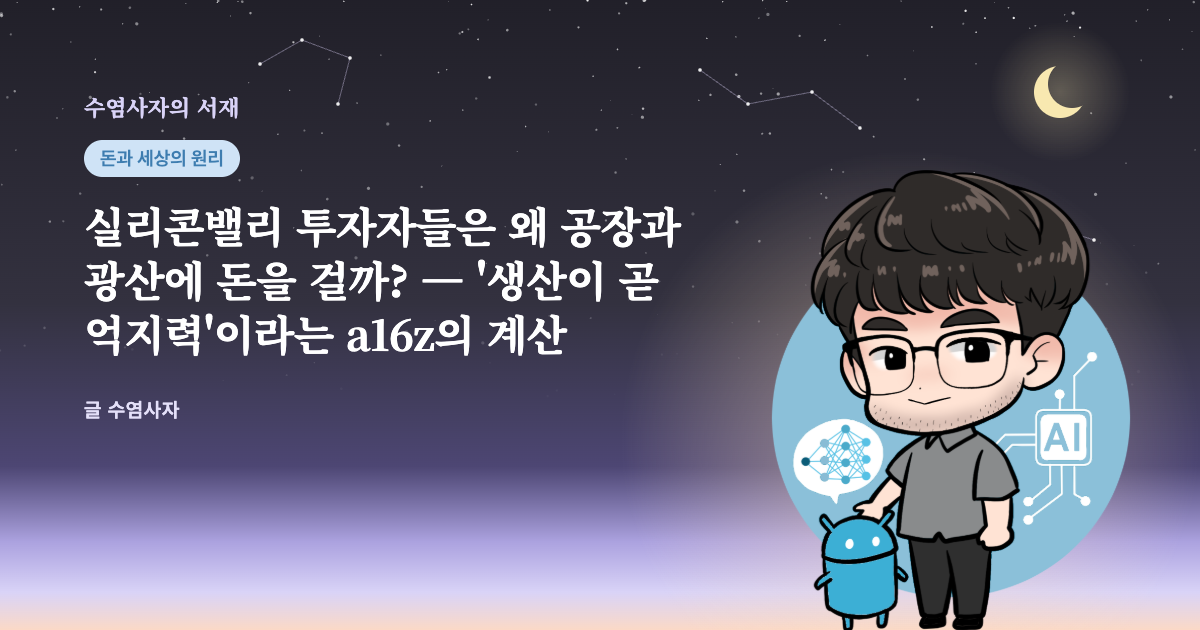
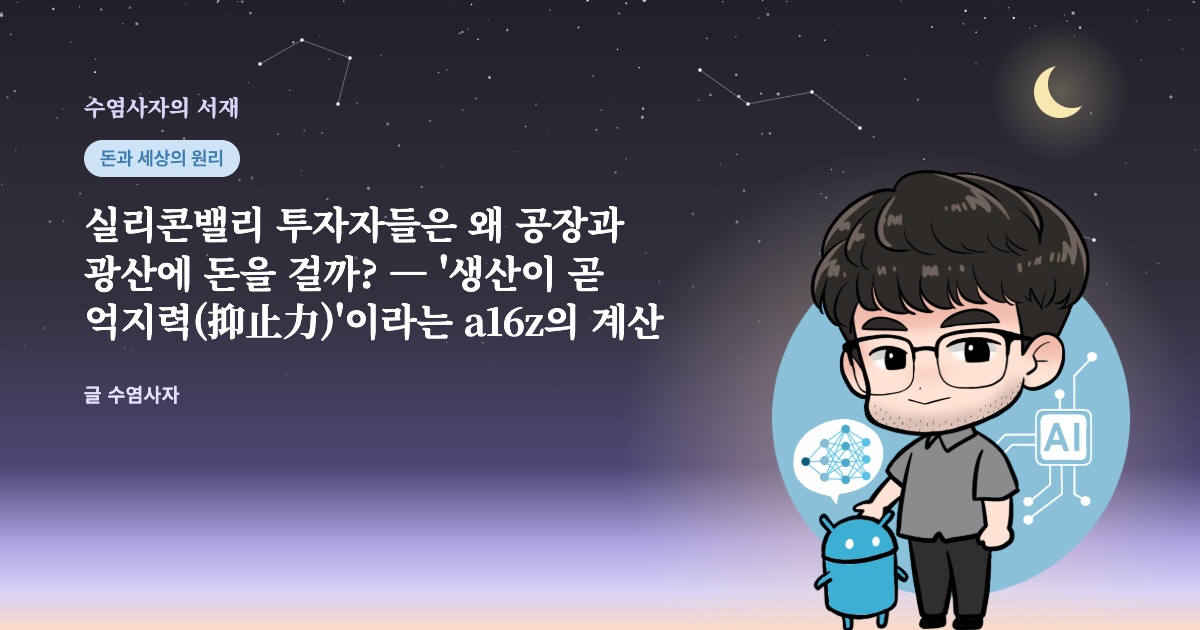
posts: a16z·스토아·튜링 사용자 편집 반영, 끊긴 참고문헌 정리
Claude-Session: https://claude.ai/code/session_01J36DQQsi1iZDy94NMGj8jH

Changed region(s): [[0.0617, 0.3317, 0.5858, 0.573], [0.0617, 0.6032, 0.1542, 0.6635]]

diff --git a/posts/a16z-production-deterrence/post.html b/posts/a16z-production-deterrence/post.html
@@ -60,17 +60,17 @@
 </head>
 <body>
 <article>
-<h1>실리콘밸리 투자자들은 왜 공장과 광산에 돈을 걸까? — '생산이 곧 억지력'이라는 a16z의 계산</h1>
+<h1>실리콘밸리 투자자들은 왜 공장과 광산에 돈을 걸까? — '생산이 곧 억지력(抑止力)'이라는 a16z의 계산</h1>
 <div class="meta">2026-11-09 · 약 12분 분량 · 글 수염사자</div>
 
 <p class="lead-quote">"앱에 투자하던 사람들이 왜 갑자기 구리 광산을 사요?"</p>
 <p>요즘 미국 기술 투자 소식을 보면 낯선 단어가 자주 나옵니다. 벤처 투자를 받은 스타트업이 유타주의 멈춘 구리 광산을 사들여 다시 돌립니다<sup class="fn"><a id="cite-1" href="#ref-1">[1]</a></sup>. 창업 몇 년 된 회사가 미 해군과 극초음속 미사일 생산 계약을 맺습니다<sup class="fn"><a id="cite-2" href="#ref-2">[2]</a></sup>. 미국 최대 은행은 10년간 1조 5천억 달러를 '안보와 회복력' 산업에 대겠다고 발표합니다<sup class="fn"><a id="cite-3" href="#ref-3">[3]</a></sup>. 소프트웨어와 플랫폼의 언어로 움직이던 실리콘밸리가 흙과 쇳덩이 이야기를 하고 있습니다.</p>
 <p><strong>바뀐 것은 투자자의 애국심이 아니라 계산입니다.</strong></p>
-<p>이 글은 이 흐름이 유행인지, 정말 구조가 바뀐 것인지 궁금한 분들을 위해 씁니다. 실마리는 벤처 투자사 앤드리슨 호로위츠(a16z)가 2026년 10월 29일 공개한 대담과 기업 명단입니다<sup class="fn"><a id="cite-4" href="#ref-4">[4]</a></sup><sup class="fn"><a id="cite-5" href="#ref-5">[5]</a></sup>. 이 회사의 국방·제조 담당 팀은 해마다 주목할 기업 50곳을 꼽는데, 올해 명단의 제목이 <strong>'생산이 곧 억지력이다(Production is Deterrence)'</strong>였습니다. 결론부터 말씀드리면, 그들의 논리에는 단단한 부분과 아직 증명되지 않은 부분이 섞여 있습니다. 이 글은 둘을 나눠 읽어 봅니다.</p>
-<p>명단에 오른 회사 상당수는 a16z가 실제로 투자한 곳입니다. 대담자들은 자기 포트폴리오를 설명하는 사람들이고, 그 점을 감안하고 읽어야 해요.</p>
+<p>이 글은 이 흐름이 유행인지, 정말 구조가 바뀐 것인지 궁금한 분들을 위해 씁니다. 실마리는 벤처 투자사 앤드리슨 호로위츠(a16z)가 2026년 10월 29일 공개한 대담과 기업 명단입니다<sup class="fn"><a id="cite-4" href="#ref-4">[4]</a></sup><sup class="fn"><a id="cite-5" href="#ref-5">[5]</a></sup>. 이 회사의 국방·제조 담당 팀은 해마다 주목할 기업 50곳을 꼽는데, 올해 명단의 제목이 <strong>'생산이 곧 억지력이다(Production is Deterrence)'</strong>였습니다. </p>
+<p>(참고) 명단에 오른 회사 상당수는 a16z가 실제로 투자한 곳입니다. 대담자들은 자기 포트폴리오를 설명하는 사람들임은 감안해야 합니다.</p>
 
 <h2>'생산이 곧 억지력'이라는 말의 뜻</h2>
-<p>억지력(deterrence)은 상대가 공격할 엄두를 내지 못하게 만드는 힘입니다. 흔히 억지력은 첨단 무기의 성능으로 잰다고 생각합니다. 그런데 a16z 명단은 질문을 바꿉니다. 얼마나 좋은 무기를 갖고 있느냐가 아니라, 압박 속에서도 계속 만들어 낼 수 있느냐는 것입니다.</p>
+<p>억지력(deterrence)은 상대가 공격할 엄두를 내지 못하게 만드는 힘입니다. 흔히 억지력은 첨단 무기의 성능으로 잰다고 생각합니다. 그런데 a16z가 묻는 것은 얼마나 좋은 무기를 갖고 있느냐가 아니라, 압박 속에서도 계속 만들어 낼 수 있느냐입니다.</p>
 <blockquote class="quote">
   <p>힘은 압박 속에서도 생산을 이어 가는 능력으로 측정된다.</p>
   <cite>— a16z American Dynamism 팀, 「The American Dynamism 50 2026」(번역)<sup class="fn"><a id="cite-5b" href="#ref-5">[5]</a></sup></cite>
@@ -113,10 +113,10 @@
 </svg>
 <figcaption>a16z는 올해 명단을 원료, 공장, 완성 체계의 세 층으로 나눴고, 칸 아래 회사들은 각 층에 실린 기업 가운데 대담에서 언급된 곳입니다.</figcaption>
 </figure>
-<p>이 구분이 왜 중요한지는 지난 수십 년의 투자 습관을 보면 보입니다. 한 대담자는 자신을 포함해 이 분야 투자자 대부분이 오른쪽 칸, 곧 완성 체계 기업에만 눈을 뒀다고 털어놓습니다. 미사일과 드론은 눈에 띄고 이야기가 됩니다. 볼 베어링과 회로기판은 그렇지 않습니다. 그런데 미사일을 1년에 수천 기 만들려면 결국 그 왼쪽 두 칸이 받쳐 줘야 합니다.</p>
+<p>이 구분이 왜 중요한지는 지난 수십 년의 투자 습관을 보면 보입니다. 한 대담자는 자신을 포함해 이 분야 투자자 대부분이 오른쪽 칸, 곧 완성 체계 기업에만 눈을 뒀다고 털어놓습니다. 미사일과 드론은 눈에 띄고 이야기가 됩니다. 하지만, 볼 베어링과 회로기판은 그렇지 않지요. 결국, 미사일을 1년에 수천 기 만들려면 원료와 공장이 받쳐 줘야 합니다.</p>
 
 <h2>옛 방식과 무엇이 다른가 — 주문을 기다리지 않는다</h2>
-<p>미국 방위산업에는 오래된 구조가 있습니다. 정부가 필요한 것을 정해 발주하면, 정부와 직접 계약하는 대형 방산업체, 이른바 <strong>프라임(prime contractor)</strong>이 그 사양대로 개발합니다. 육군 복무 경험이 있다는 대담자는 이 구조의 약점을 이렇게 설명합니다. 무기를 쓰는 병사, 무기를 사는 조달 조직, 예산을 정하는 의회가 서로 다른 사람들입니다. 요구가 정해지고 개발이 끝날 즈음이면 기술은 이미 10년 전 것이 되어 있습니다<sup class="fn"><a id="cite-4c" href="#ref-4">[4]</a></sup>.</p>
+<p>미국 방위산업에는 오래된 구조가 있습니다. 정부가 필요한 것을 정해 발주하면, 정부와 직접 계약하는 대형 방산업체, 이른바 <strong>프라임(prime contractor)</strong>이 그 사양대로 개발합니다. 대담자는 이 구조의 약점을 이렇게 설명합니다. 무기를 쓰는 병사, 무기를 사는 조달 조직, 예산을 정하는 의회가 서로 다른 사람들입니다. 요구가 정해지고 개발이 끝날 즈음이면 기술은 이미 10년 전 것이 되어 있습니다<sup class="fn"><a id="cite-4c" href="#ref-4">[4]</a></sup>.</p>
 <p>새로 등장한 방산 스타트업들은 순서를 뒤집습니다. 군에 무엇이 필요할지 먼저 읽고, 민간 투자금으로 먼저 만든 다음, 완성품을 들고 정부를 찾아갑니다.</p>
 <figure>
 <svg xmlns="http://www.w3.org/2000/svg" viewBox="0 0 680 400" width="100%" role="img" aria-labelledby="t-2 d-2" font-family="'Pretendard','Noto Sans KR','Noto Sans CJK KR','Apple SD Gothic Neo',sans-serif">
@@ -146,12 +146,11 @@
 </svg>
 <figcaption>옛 방식에서는 정부가 사양을 정하고 돈을 대며 위험을 졌지만, 새 방식에서는 스타트업이 민간 투자금으로 먼저 만들고 그 위험을 창업자와 투자자가 집니다.</figcaption>
 </figure>
-<p>맞춤 양복과 기성복에 빗대면 쉽습니다. 옛 방식은 손님이 치수를 재서 주문해야 재단을 시작하는 양복점입니다. 새 방식은 손님이 무엇을 입을지 미리 짐작해 옷을 지어 걸어 두는 가게입니다. 짐작이 맞으면 손님은 기다리지 않고 바로 입습니다. 짐작이 틀리면 재고는 가게 몫입니다.</p>
 <p>대담에서 든 사례가 극초음속 미사일 회사 카스텔리온(Castelion)입니다. 이 회사는 공중 발사형 미사일 '블랙비어드'를 개발해 2026년 9월 미 해군과 2억 달러 규모의 생산 계약을 맺었는데, 보도에 따르면 개발 자금은 민간 투자에서 나왔습니다<sup class="fn"><a id="cite-2b" href="#ref-2">[2]</a></sup>. 대담자는 지난 3년간 이 회사를 받친 것이 정부가 아니라 벤처 자본이었고, 창업자들이 위험을 먼저 졌다고 강조합니다<sup class="fn"><a id="cite-4d" href="#ref-4">[4]</a></sup>.</p>
-<p>방산에는 오래된 별명이 하나 있습니다. 시제품까지는 만들었는데 정부의 본격 양산 계약이 오기 전에 돈이 바닥나 쓰러지는 구간, <strong>'죽음의 계곡(valley of death)'</strong>입니다. 새 방식은 이 계곡을 민간 자본으로 건너겠다는 시도입니다.</p>
+<p>방산에는 오래된 별명이 하나 있습니다. 시제품까지는 만들었는데 정부의 본격 양산 계약이 오기 전에 돈이 바닥나 쓰러지는 구간, <strong>'죽음의 계곡(valley of death)'</strong>입니다. 새 방식은 이 계곡을 민간 자본으로 건너 보겠다는 시도입니다.</p>
 
 <h2>돈은 정말 몰리고 있나</h2>
-<p>대담자들은 2026년 상반기에만 방산 분야에 들어간 위험 자본이 작년 한 해 전체보다 많았다고 말합니다<sup class="fn"><a id="cite-4e" href="#ref-4">[4]</a></sup>. 숫자로 확인해 보면 방향은 맞습니다. 그런데 크기는 누가 세느냐에 따라 크게 달라집니다.</p>
+<p>대담자들은 2026년 상반기에만 방산 분야에 들어간 위험 자본이 작년 한 해 전체보다 많았다고 말합니다<sup class="fn"><a id="cite-4e" href="#ref-4">[4]</a></sup>. 이 부분은 숫자가 맞긴 했지만, 집계에 따라 약간 차이는 있었습니다.</p>
 <p>피치북(PitchBook) 집계로 2025년 방산 스타트업 투자액은 491억 달러로, 2024년 272억 달러의 1.8배였습니다<sup class="fn"><a id="cite-6" href="#ref-6">[6]</a></sup>. 크런치베이스(Crunchbase) 집계를 인용한 보도는 2025년 한 해 96억 달러, 2026년 6월 중순까지 이미 146억 달러였다고 전합니다<sup class="fn"><a id="cite-7" href="#ref-7">[7]</a></sup>. 크런치베이스 기준이라면 대담자의 말대로 반년이 안 돼 작년을 넘어선 셈입니다.</p>
 <figure>
 <svg xmlns="http://www.w3.org/2000/svg" viewBox="0 0 680 266" width="100%" role="img" aria-labelledby="t-4 d-4" font-family="'Pretendard','Noto Sans KR','Noto Sans CJK KR','Apple SD Gothic Neo',sans-serif">
@@ -178,15 +177,15 @@
 <text x="32" y="248" font-size="12" fill="#6E6B7B">자료: Defense News(2026.1)[6]·Washington Times(2026.6)[7]으로 재구성</text>
 </svg>
 
-<figcaption>같은 2025년 방산 스타트업 투자액이 피치북은 491억 달러, CB인사이츠는 179억 달러, 크런치베이스는 96억 달러로 집계돼, 무엇을 방산 기업으로 세느냐에 따라 다섯 배 넘게 차이가 납니다.</figcaption>
+<figcaption>같은 2025년 방산 스타트업 투자액이 피치북은 491억 달러, CB인사이츠는 179억 달러, 크런치베이스는 96억 달러로 집계돼, 무엇을 방산 기업으로 보느냐에 따라 다섯 배 넘게 차이가 납니다.</figcaption>
 </figure>
-<p>이 그림에서 읽어야 할 것은 어느 숫자가 맞느냐가 아닙니다. 피치북과 CB인사이츠(CB Insights)는 군사와 민간 양쪽에 쓰이는 이른바 <strong>이중 용도(dual use)</strong> 기업까지 셉니다. 드론 회사가 소방용 드론도 팔면 포함되는 식입니다. 그래서 '방산 투자 사상 최대'라는 기사를 볼 때는 그 숫자가 어느 바구니를 센 것인지부터 봐야 합니다. 다만 어느 집계로 봐도 한 해 사이 크게 늘었다는 방향만은 같습니다.</p>
-<p>은행도 움직였습니다. JP모건체이스(JPMorganChase)는 2025년 10월 '안보·회복력 이니셔티브'를 발표하며 10년간 1조 5천억 달러 규모의 금융 지원과 최대 100억 달러의 직접 지분·벤처 투자를 약속했습니다<sup class="fn"><a id="cite-3b" href="#ref-3">[3]</a></sup>. 대담에서는 이를 "수조 달러"라고 불렀지만, 발표 원문의 규모는 1조 5천억 달러이고 그 대부분은 대출과 자금 조달 주선입니다. 은행이 제 돈을 직접 지분으로 넣는 몫은 100억 달러까지예요.</p>
-<p>미국 국방부가 2025년 9월 행정명령으로 '전쟁부(Department of War)'라는 두 번째 이름을 함께 쓰기 시작한 것도 같은 분위기를 보여 줍니다<sup class="fn"><a id="cite-8" href="#ref-8">[8]</a></sup>. 이름 자체가 돈을 만들지는 않지만, 정부가 생산과 전쟁 준비를 전면에 내세우고 있다는 신호로 시장은 읽습니다.</p>
+<p>피치북과 CB인사이츠(CB Insights)는 군사와 민간 양쪽에 쓰이는 이른바 <strong>이중 용도(dual use)</strong> 기업까지 셉니다. 드론 회사가 소방용 드론도 팔면 포함되는 식입니다. 그래서 '방산 투자 사상 최대'라는 기사를 볼 때는 그 숫자가 어느 카테고리를 카운팅한 것인지부터 봐야 합니다. 다만 한 해 사이 크게 늘었다는 건 분명해 보입니다.</p>
+<p>은행도 움직였습니다. JP모건체이스(JPMorganChase)는 2025년 10월 '안보·회복력 이니셔티브'를 발표하며 10년간 1조 5천억 달러 규모의 금융 지원과 최대 100억 달러의 직접 지분·벤처 투자를 약속했습니다<sup class="fn"><a id="cite-3b" href="#ref-3">[3]</a></sup>. 대담에서는 이를 "수조 달러"라고 불렀지만, 발표 원문의 규모는 1조 5천억 달러이고 그 대부분은 대출과 자금 조달 주선입니다.</p>
+<p>미국 국방부가 2025년 9월 행정명령으로 '전쟁부(Department of War)'라는 두 번째 이름을 함께 쓰기 시작한 것도 같은 분위기를 보여 줍니다<sup class="fn"><a id="cite-8" href="#ref-8">[8]</a></sup>. 이름 자체가 돈을 만들지는 않지만, 정부가 생산과 전쟁 준비를 전면에 내세우고 있다는 신호로 시장은 바라봅니다.</p>
 
 <h2>국방 수요가 민간 산업으로 번지는 고리</h2>
 <p>여기까지는 국방 이야기입니다. 그런데 이 투자자들이 정말 노리는 것은 그다음입니다. 대담의 중심 논리는 국방 수요가 공장을 세우는 비용을 대 주면, 그 공장이 결국 민간 산업 전체를 먹여 살린다는 것입니다.</p>
-<p>예를 들어 볼게요. 전자 제품의 뼈대인 인쇄회로기판(PCB) 공장을 미국에 새로 지으려면 기계값이 많이 듭니다. 이때 국방 구매자가 첫 고객이 되어 초기 설비 투자의 상당 부분을 사실상 보조해 주면 공장이 섭니다. 그런데 그 회로기판은 미사일에만 들어가지 않습니다. 로봇에도, 보청기에도 들어갑니다<sup class="fn"><a id="cite-4f" href="#ref-4">[4]</a></sup>.</p>
+<p>전자 제품의 뼈대인 인쇄회로기판(PCB) 공장을 미국에 새로 지으려면 기계값이 많이 듭니다. 이때 국방 구매자가 첫 고객이 되어 초기 설비 투자의 상당 부분을 사실상 보조해 주면 공장이 섭니다. 그런데 그 회로기판은 미사일에만 들어가지 않습니다. 로봇에도, 보청기에도 들어갑니다<sup class="fn"><a id="cite-4f" href="#ref-4">[4]</a></sup>.</p>
 <figure>
 <svg xmlns="http://www.w3.org/2000/svg" viewBox="0 0 680 460" width="100%" role="img" aria-labelledby="t-3 d-3" font-family="'Pretendard','Noto Sans KR','Noto Sans CJK KR','Apple SD Gothic Neo',sans-serif">
 <title id="t-3">국방 수요가 민간으로 번지는 고리</title>
@@ -216,9 +215,9 @@
 </svg>
 <figcaption>대담자들이 그리는 고리는 정부가 첫 고객으로 공장 설비 투자를 받쳐 주면 단가와 품질이 나아지고, 그 부품이 로봇·전력망 같은 민간 시장으로 들어가 다시 생산을 키우는 순환입니다.</figcaption>
 </figure>
-<p>역사적 근거도 듭니다. 인터넷, 우주 개발, 원자력은 모두 정부가 자기 목적을 위해 시작했고, 그 기술의 긴 꼬리가 민간에서 거대한 가치를 냈습니다. 대담자는 이번에 달라진 점이 그 출발을 민간 자본이 직접 맡겠다고 나섰다는 데 있다고 봅니다<sup class="fn"><a id="cite-4g" href="#ref-4">[4]</a></sup>.</p>
-<p>여기서 한 가지, 대담에서 가장 흥미롭지만 가장 조심해서 읽어야 할 사례가 있습니다. 중국 드론 회사 DJI입니다. 대담자는 DJI가 소비자용 드론에서 출발해 국방용 대량 생산으로 커졌고, 드론 모터와 닮은 로봇 관절 구동 장치(액추에이터) 기술로 로봇 산업까지 넘어갔다고 설명합니다. 그런데 DJI 자신은 자사 드론이 민간용이며 군사용으로 팔지 않는다는 입장을 밝혀 왔고, 2022년 4월에는 러시아와 우크라이나에서 사업을 일시 중단했습니다<sup class="fn"><a id="cite-9" href="#ref-9">[9]</a></sup>. 군수와 민수 사이에 기술이 오간다는 큰 그림은 그럴듯하지만, 이 사례 하나를 그 증거로 삼기에는 사실관계가 어긋나 있어요.</p>
-<div class="key">투자자들이 공장과 광산에 돈을 거는 핵심 이유는 국방 예산을 '첫 고객'으로 삼아 비싼 초기 설비를 깔고, 그 설비로 민간 시장까지 차지하겠다는 계산입니다. 이 계산이 맞으려면 정부 수요가 몇 년은 꾸준해야 하고, 민간 수요가 실제로 뒤따라와야 합니다.</div>
+<p>역사적 근거도 듭니다. 인터넷, 우주 개발, 원자력은 모두 정부가 자기 목적을 위해 시작했고, 그 기술의 긴 꼬리가 민간에서 거대한 가치를 냈습니다. 대담자는 이번에 달라진 점이 그 출발을 민간 자본이 직접 맡겠다고 나섰다는 데 있다고 말합니다<sup class="fn"><a id="cite-4g" href="#ref-4">[4]</a></sup>.</p>
+<p>여기서 한 가지, 대담에서 가장 흥미롭지만 가장 조심해서 읽어야 할 사례가 있습니다. 중국 드론 회사 DJI입니다. 대담자는 DJI가 소비자용 드론에서 출발해 국방용 대량 생산으로 커졌고, 드론 모터와 닮은 로봇 관절 구동 장치(액추에이터) 기술로 로봇 산업까지 넘어갔다고 설명합니다. 그런데 DJI 자신은 자사 드론이 민간용이며 군사용으로 팔지 않는다는 입장을 밝혀 왔고, 2022년 4월에는 러시아와 우크라이나에서 사업을 일시 중단했습니다<sup class="fn"><a id="cite-9" href="#ref-9">[9]</a></sup>. 군수와 민수 사이에 기술이 오간다는 큰 그림은 그럴듯하지만, 이 사례 하나를 그 증거로 삼기에는 부족합니다.</p>
+<div class="key">투자자들이 공장과 광산에 돈을 거는 핵심 이유는 <strong>"</strong><strong>국방 예산을 '첫 고객'으로 삼아 비싼 초기 설비를 깔고, 그 설비로 민간 시장까지 차지하겠다는 계산"</strong>입니다. 이 계산이 맞으려면 정부 수요가 몇 년은 꾸준해야 하고, 민간 수요가 실제로 뒤따라와야 합니다.</div>
 
 <h2>원료부터 공장까지 — 현장에서 바뀌는 것들</h2>
 <h3>광산을 통째로 사는 이유</h3>
@@ -227,30 +226,28 @@
 <h3>AI는 아직 렌치를 돌리지 못한다</h3>
 <p>공장 층에서는 해드리언(Hadrian)과 AMCA가 언급됩니다. 해드리언은 2020년 말 로스앤젤레스에서 세워져 고도로 자동화된 공장에서 우주·방산용 정밀 금속 부품을 만듭니다<sup class="fn"><a id="cite-10" href="#ref-10">[10]</a></sup>. AMCA는 2025년 4월 7,600만 달러를 조달하면서 1963년에 창업한 가족 기업을 인수하는 방식으로 출발했습니다<sup class="fn"><a id="cite-11" href="#ref-11">[11]</a></sup>.</p>
 <p>대담자 한 사람은 이 분야를 두고 "AI는 아직 렌치를 돌리지 못한다"고 말합니다. 공장을 단번에 바꾸는 은탄환은 없고, 견적을 내고, 깎고, 검사하고, 옮기는 수십 개의 작은 공정을 하나씩 다시 따져야 한다는 뜻입니다. 대신 AI가 바꾸는 지점이 있다고 합니다. 한 생산 라인에서 여러 종류를 조금씩 만드는 이른바 <strong>다품종 소량 생산</strong>은 라인을 자주 바꿔야 해서 자동화가 어려웠습니다. 대담자에 따르면 이제는 현장 제조 엔지니어가 Claude 같은 AI 도구로 라인 설정을 20분 만에 바꾸기도 하는데, 예전에는 외부 업체를 불러 석 달과 수십만 달러가 들던 일이라고 합니다<sup class="fn"><a id="cite-4i" href="#ref-4">[4]</a></sup>. 다만 이것은 포트폴리오 현장에서 들은 사례이고, 업계 전반의 수치로 확인된 것은 아닙니다.</p>
-<h3>시스템 층 — 이미 공장이 서고 있다</h3>
-<p>완성 체계 층에서는 실제 공장이 들어서고 있습니다. 안두릴(Anduril)은 오하이오에 무인 협동 전투기(CCA)를 생산할 대형 공장을 세웠고<sup class="fn"><a id="cite-12" href="#ref-12">[12]</a></sup>, 무인 선박을 만드는 사로닉(Saronic)은 자율 운항 선박 전용 조선소 계획을 2025년 2월 공개했습니다<sup class="fn"><a id="cite-13" href="#ref-13">[13]</a></sup>. 2026년 9월에는 커버넌트(Covenant)라는 신생 기업이 대량 생산용 저가 미사일을 공개하며 댈러스 공장에서 연 5,000기를 만들겠다는 목표를 내걸었습니다<sup class="fn"><a id="cite-14" href="#ref-14">[14]</a></sup>.</p>
-<p>그리고 이 공장들이 커질수록 왼쪽 두 층에 수요가 생깁니다. 대담자는 지난 40년 동안 미국의 하청 부품업체들이 '수신 모드'에 있었다고 말합니다. 완성품 회사가 40년 전 설계도를 내밀며 "같은 걸 하나 더"라고 하면 그대로 만들어 왔다는 것입니다. 그는 앞으로 완성품 회사와 함께 부품을 다시 설계하는 새 공급업체 층, 그의 표현으로 <strong>'제조의 중간층'</strong>이 생길 것이라고 내다봅니다<sup class="fn"><a id="cite-4j" href="#ref-4">[4]</a></sup>. 아직은 전망이지만, 투자자들이 원료와 공장 층에 돈을 거는 이유가 바로 이 대목입니다.</p>
+<h3>이미 공장이 들어서고 있다</h3>
+<p>안두릴(Anduril)은 오하이오에 무인 협동 전투기(CCA)를 생산할 대형 공장을 세웠고<sup class="fn"><a id="cite-12" href="#ref-12">[12]</a></sup>, 무인 선박을 만드는 사로닉(Saronic)은 자율 운항 선박 전용 조선소 계획을 2025년 2월 공개했습니다<sup class="fn"><a id="cite-13" href="#ref-13">[13]</a></sup>. 2026년 9월에는 커버넌트(Covenant)라는 신생 기업이 대량 생산용 저가 미사일을 공개하며 댈러스 공장에서 연 5,000기를 만들겠다는 목표를 내걸었습니다<sup class="fn"><a id="cite-14" href="#ref-14">[14]</a></sup>.</p>
+<p>그리고 이 공장들이 커질수록 수요가 생깁니다. 대담자는 지난 40년 동안 미국의 하청 부품업체들이 '수신 모드'에 있었다고 말합니다. 완성품 회사가 40년 전 설계도를 내밀며 "같은 걸 하나 더"라고 하면 그대로 만들어 왔다는 것입니다. 그는 앞으로 완성품 회사와 함께 부품을 다시 설계하는 새 공급업체 층, <strong>'제조의 중간층'</strong>이 생길 것이라고 내다봅니다<sup class="fn"><a id="cite-4j" href="#ref-4">[4]</a></sup>. 아직은 전망이지만, 투자자들이 원료와 공장 층에 돈을 거는 이유가 바로 이 대목입니다.</p>
 
 <h2>반대로 읽어 볼 대목</h2>
-<p>이 논리에는 분명히 단단한 부분이 있습니다. 공장이 실제로 서고 있고, 돈이 실제로 들어오고 있습니다. 그런데 몇 군데는 반대로도 읽어 봐야 합니다.</p>
-<p>첫째, <strong>말하는 사람이 곧 투자자입니다.</strong> 명단에 오른 기업 상당수가 a16z 포트폴리오이고, 대담자들은 그 회사들의 성공에 이해관계가 있습니다. 이들이 낙관적인 것은 자연스럽지만, 그 낙관이 곧 증거는 아닙니다.</p>
-<p>둘째, <strong>첫 고객이 흔들리면 고리가 끊깁니다.</strong> 앞의 순환도에서 약한 고리로 표시한 곳이 정부 예산입니다. 대담자는 "수요의 절반만 실현돼도 되돌아가지 않는다"고 말하지만, 이는 전망이지 확인된 사실이 아닙니다. 정권이나 안보 환경이 바뀌어 국방 수요가 줄면, 미리 깔아 둔 설비는 고스란히 비용이 됩니다.</p>
+<p>논리는 꽤 단단합니다. 공장이 실제로 서고 있고, 돈이 실제로 오가고 있습니다. 그렇지만, 몇 군데는 주의해서 봐야 합니다.</p>
+<p>첫째, <strong>말하는 사람이 곧 투자자입니다.</strong> 명단에 오른 기업 상당수가 a16z 포트폴리오이고, 대담자들은 그 회사들의 성공에 이해관계가 있습니다. </p>
+<p>둘째, <strong>첫 고객이 흔들리면 고리가 끊깁니다.</strong> 앞의 순환도에서 약한 고리로 표시한 곳이 정부 예산입니다. 대담자는 "수요의 절반만 실현돼도 되돌아가지 않는다"고 말하지만, 이는 전망일 뿐이지요. 정권이나 안보 환경이 바뀌어 국방 수요가 줄면, 미리 깔아 둔 설비는 고스란히 비용이 됩니다.</p>
 <p>셋째, <strong>기술보다 의지의 문제일 수 있습니다.</strong> 대담에서 진행자가 미국과 중국의 전력 생산 그래프를 꺼내자, 한 대담자는 그것이 기술이 아니라 미국 사회가 이런 시설이 지어지길 원하느냐의 문제라고 답합니다<sup class="fn"><a id="cite-4k" href="#ref-4">[4]</a></sup>. 실제 숫자를 보면 격차가 큽니다. 에너지 연구기관 엠버(Ember)에 따르면 2025년 한 해 중국의 전력 수요는 503TWh 늘어 1만 573TWh가 됐고, 2015년 5,802TWh에서 거의 두 배가 됐습니다. 같은 해 미국은 131TWh 늘었고, 2015~2024년 연평균 증가율은 0.6%에 그쳤습니다<sup class="fn"><a id="cite-15" href="#ref-15">[15]</a></sup>. 2025년 한 해 늘어난 양만 견줘도 중국이 미국의 네 배 가까이 됩니다.</p>
 <p>이 격차를 줄이려면 발전소와 광산과 공장이 누군가의 동네에 들어서야 합니다. 대담자들도 이 점을 인정합니다. 소프트웨어는 몇몇 도시에 모여 있어 눈에 잘 띄지 않았지만, 공장은 이웃의 풍경을 바꾸고, 주민이 그 이익을 나눠 받는다고 느끼지 못하면 반발이 생긴다는 것입니다. 그래서 그들이 좋은 사례로 꼽는 것이 AMCA입니다. 작은 기계 공장을 인수한 뒤 경영진을 내보내고 사람을 줄이는 대신, 그 공장이 새 제품을 만들도록 돕는 방식이라고 합니다<sup class="fn"><a id="cite-4l" href="#ref-4">[4]</a></sup>.</p>
-<div class="caution">이 글에 나온 기업들이 성공한다는 보장은 없습니다. 물리 세계의 사업은 몇 년 단위로 시간이 걸리고, 대담자들 스스로도 자본시장에 인내가 필요하다고 말합니다. 주식이나 펀드를 고르는 근거로 이 글을 쓰지 마세요.</div>
 
 <section class="expert-note">
   <h2>필자 한마디</h2>
   <blockquote>
     <p>소프트웨어가 세상을 먹어 치운다는 말을 들으며 자란 세대에게, 투자자들이 광산과 공장 이야기를 하는 장면은 낯설게 느껴집니다. 유행이 한 바퀴 돌아온 것처럼 보이기도 합니다.</p>
-    <p>그런데 이 대담에서 건질 만한 것은 특정 기업 이름이 아니라 질문 하나라고 생각합니다. <strong>"좋은 것을 하나 만들 수 있는가"가 아니라 "압박 속에서도 계속 만들 수 있는가."</strong> 이 질문은 국방에만 해당하지 않습니다. 반도체도, 전력망도, 백신도 같은 질문 앞에 서 있습니다.</p>
-    <p>다만 그 질문에 답하는 사람이 그 답으로 돈을 버는 사람이라는 사실도 함께 기억해 두면 좋겠습니다. 방향은 믿되, 속도와 크기는 숫자로 확인하는 것. 그 정도의 거리를 두고 지켜볼 만한 흐름입니다.</p>
+    <p>이 대담에서 건질 만한 것은 특정 기업 이름이 아니라 질문 하나라고 생각합니다. <strong>"좋은 것을 만들 수 있는가"가 아니라 "압박 속에서도 계속 지속가능한가?"</strong> 이 질문은 국방에만 해당하지 않습니다. 반도체도, 전력망도, 백신도 같은 질문 앞에 서 있습니다.</p>
+    <p>대담의 방향은 믿되, 속도와 크기는 직접 데이터로 확인하는 것. 그 정도의 거리를 두고 지켜볼 만한 필요가 있겠습니다.</p>
   </blockquote>
 </section>
 
 <hr>
 <p>a16z는 '생산이 곧 억지력'이라는 기치 아래 원료, 공장, 완성 체계를 한 흐름으로 보고 투자합니다. 그 계산의 중심은 국방 예산을 첫 고객으로 삼아 비싼 설비를 깔고, 그 설비로 민간 시장까지 가져가겠다는 데 있습니다. 돈이 몰리는 것은 사실이지만, 그 크기는 집계 방식에 따라 다섯 배까지 달라지고, 고리를 지탱하는 정부 수요와 지역사회의 수용은 아직 시험대에 있습니다.</p>
-<p>다음에 '사상 최대 방산 투자'라는 기사를 보면 한 가지만 물어보세요. 이 숫자는 어느 바구니를 센 것인가?</p>
 
 <p class="disclaimer">이 글은 일반적인 정보 제공을 위한 것이며 투자 조언이 아닙니다. 글에 나온 기업 다수는 대담자들이 속한 투자사의 투자처입니다. 개별 투자 판단은 반드시 자격을 갖춘 전문가와 상의하세요.</p>
 

diff --git a/posts/stoic-death/post.html b/posts/stoic-death/post.html
@@ -107,16 +107,16 @@
 </svg>
 <figcaption>흔히 죽음을 삶의 맨 끝에 놓인 한 점으로 그리지만, 세네카는 이미 지나간 날들이 죽음의 몫이고 남은 날의 길이는 알 수 없으니 붙잡을 수 있는 것은 오늘뿐이라고 보았습니다.</figcaption>
 </figure>
-<p>죽음의 자리를 이렇게 옮기면 결론이 달라집니다. 죽음이 멀리 있는 한 점이라면 겁내거나 잊는 것 말고는 할 일이 없습니다. 죽음이 날마다 조금씩 가져가는 몫이라면 할 일이 생깁니다. 세네카는 같은 편지에서 바로 그 일을 말합니다. 오늘의 일을 붙잡아라, 그러면 내일에 덜 기대게 된다, 미루는 동안 삶은 달려간다<sup class="fn"><a id="cite-6b" href="#ref-6">[6]</a></sup>.</p>
-<p>101번 편지에는 이 생각을 굳힌 사건이 적혀 있습니다. 코르넬리우스 세네키오라는 기사 계급의 지인이 있었습니다. 검소하게 살며 몸과 재산을 꼼꼼히 돌보던 사람입니다. 그날도 여느 때처럼 아침 일찍 세네카를 찾아왔고, 해 질 녘까지 위독한 친구의 머리맡을 지켰습니다. 기분 좋게 저녁을 먹은 뒤 갑자기 목이 붓는 급성 병에 걸렸고, 날이 밝을 때까지 겨우 버티다 숨졌습니다. 세네카는 이렇게 맺습니다. 우리는 먼 항해와 승진을 계획하지만 죽음은 내내 곁에 서 있다, 그러니 아무것도 미루지 말고 날마다 삶의 장부를 맞추자, 날마다 삶에 마지막 손질을 해 두는 사람은 시간이 모자라지 않다<sup class="fn"><a id="cite-6c" href="#ref-6">[6]</a></sup>.</p>
+<p>죽음이 멀리 있는 한 점이라면 겁내거나 잊는 것 말고는 할 일이 없습니다. 죽음이 날마다 조금씩 가져가는 몫이라면 할 일이 생깁니다. 세네카는 같은 편지에서 바로 그 일을 말합니다. 오늘의 일을 붙잡아라, 그러면 내일에 덜 기대게 된다, 미루는 동안 삶은 달려간다<sup class="fn"><a id="cite-6b" href="#ref-6">[6]</a></sup>.</p>
+<p>101번 편지에는 이 생각을 굳힌 사건이 적혀 있습니다. 코르넬리우스 세네키오라는 기사가 있었습니다. 검소하게 살며 몸과 재산을 꼼꼼히 돌보던 사람입니다. 그날도 여느 때처럼 아침 일찍 세네카를 찾아왔고, 해 질 녘까지 위독한 친구의 머리맡을 지켰습니다. 기분 좋게 저녁을 먹은 뒤 갑자기 목이 붓는 급성 병에 걸렸고, 날이 밝을 때까지 겨우 버티다 숨졌습니다. 세네카는 이렇게 맺습니다. <strong>우리는 먼 항해와 승진을 계획하지만 죽음은 내내 곁에 서 있다, 그러니 아무것도 미루지 말고 날마다 삶의 장부를 맞추자, 날마다 삶에 마지막 손질을 해 두는 사람은 시간이 모자라지 않다</strong><sup class="fn"><a id="cite-6c" href="#ref-6">[6]</a></sup>.</p>
 <p>그렇다고 하루하루를 벼랑 끝처럼 살라는 말은 아닙니다. 61번 편지에서 그는 선을 긋습니다. 하루를 마지막 날인 양 움켜쥐는 것이 아니라, 마지막 날일 수도 있다고 여길 뿐이라고요. 12번 편지에서는 잠자리에 들며 "나는 살았다"고 말할 수 있는 사람에게 아침은 날마다 덤으로 온다고 썼습니다<sup class="fn"><a id="cite-6d" href="#ref-6">[6]</a></sup>.</p>
-<div class="key">세네카에게 죽음을 떠올리는 일은 한탄보다 회계에 가깝습니다. 잔고가 얼마 남았는지 알 수 없으니, 오늘의 장부는 오늘 닫아 두자는 것입니다. 장부를 닫으려면 무엇이 먼저인지부터 정해야 합니다.</div>
+<div class="key">세네카에게 죽음을 떠올리는 일은 한탄보다 회계에 가깝습니다. 잔고가 얼마 남았는지 알 수 없으니, 오늘의 장부는 오늘 닫아 두자는 것입니다. 다만, 장부를 닫으려면 무엇이 먼저인지부터 정해야 합니다.</div>
 
 <!-- 3. 에픽테토스 -->
 <h2>에픽테토스 — 입 맞추는 순간에 떠올리라</h2>
 <p>에픽테토스는 50년 무렵 노예로 태어나 해방된 뒤 철학을 가르쳤고, 135년 무렵 그리스 서북부 니코폴리스에서 죽었습니다. 글은 남기지 않았습니다. 108년 무렵 그에게 배운 제자 아리아노스가 강의를 받아 적은 『담화록』과, 그 요약인 『엥케이리디온』(편람)이 전할 뿐입니다<sup class="fn"><a id="cite-7" href="#ref-7">[7]</a></sup>.</p>
-<p>『엥케이리디온』 3절은 처음 읽으면 섬뜩합니다. 아끼는 것이 있으면 가장 하찮은 것부터 "이것은 무엇인가"를 스스로에게 말하라고 합니다. 항아리를 아낀다면 "나는 항아리를 아낀다"고 말합니다. 아이나 아내에게 입 맞출 때는 "나는 사람에게 입 맞추고 있다"고 말합니다. 그러면 잃더라도 흔들리지 않는다는 것입니다<sup class="fn"><a id="cite-8" href="#ref-8">[8]</a></sup>.</p>
-<p>차갑게 들리는 이 지시의 속뜻은 『담화록』 3권 24장에 풀려 있습니다. 사랑하는 사람은 내 소유가 아니라 "지금을 위해" 주어진 것이고, 무화과나 포도송이처럼 정해진 철에 주어진 것이라고 그는 말합니다. 겨울에 무화과를 찾는 사람은 어리석습니다. 듣던 이가 "불길한 말"이라고 맞서자, 에픽테토스는 이삭을 거두는 일도 이삭에게는 끝이지만 불길하다고 하지 않는다고 되받습니다<sup class="fn"><a id="cite-8b" href="#ref-8">[8]</a></sup>. 세 사람 가운데 가장 엄격한 목소리이고, 오늘 읽기에 편한 대목은 아닙니다. 다만 그가 겨눈 것은 사랑이 아니라 '영원히 내 것'이라는 착각이었습니다.</p>
+<p>『엥케이리디온』 3절은 서늘합니다. 아끼는 것이 있으면 가장 하찮은 것부터 "이것은 무엇인가"를 스스로에게 말하라고 합니다. 항아리를 아낀다면 "나는 항아리를 아낀다"고 말합니다. 아이나 아내에게 입 맞출 때는 "나는 사람에게 입 맞추고 있다"고 말합니다. 그러면 잃더라도 흔들리지 않는다는 것입니다<sup class="fn"><a id="cite-8" href="#ref-8">[8]</a></sup>.</p>
+<p>차갑게 들리는 이 지시의 속뜻은 『담화록』 3권 24장에 풀려 있습니다. 사랑하는 사람은 내 소유가 아니라 "지금을 위해" 주어진 것이고, 무화과나 포도송이처럼 정해진 철에 주어진 것이라고 그는 말합니다. 겨울에 무화과를 찾는 사람은 어리석습니다. 듣던 이가 "불길한 말"이라고 맞서자, 에픽테토스는 이삭을 거두는 일도 이삭에게는 끝이지만 불길하다고 하지 않는다고 되받습니다<sup class="fn"><a id="cite-8b" href="#ref-8">[8]</a></sup>. 그가 말하는 것은 사랑이 아니라 '영원히 내 것'이라는 착각이었습니다.</p>
 <p>21절은 이 연습이 무엇에 쓰이는지를 한 문장으로 말합니다.</p>
 <blockquote class="quote">
   <p>죽음과 추방, 그리고 두려워 보이는 모든 것을 날마다 눈앞에 두라. 그 가운데서도 죽음을. 그러면 비천한 생각을 품지 않고, 무엇도 지나치게 바라지 않게 된다.</p>
@@ -127,8 +127,8 @@
 <!-- 4. 말의 내력 -->
 <h2>'메멘토 모리'라는 말은 어디서 왔나</h2>
 <p>에픽테토스는 『담화록』 3권 24장에서 인상적인 비유를 씁니다. 입 맞출 때 스스로를 일깨우기를, "개선식에서 장군 뒤에 서서 그가 죽을 존재임을 일깨우는 이들처럼" 하라는 것입니다<sup class="fn"><a id="cite-8d" href="#ref-8">[8]</a></sup>. 로마의 개선장군 뒤에서 노예가 "메멘토 모리"라고 속삭였다는 이야기는 여기저기서 되풀이됩니다. 확인되는 만큼만 적어 보겠습니다.</p>
-<p>가장 자주 인용되는 문장은 기독교 저술가 테르툴리아누스가 197년 무렵 쓴 것으로 보는 『호교론』 33장에 있습니다<sup class="fn"><a id="cite-9" href="#ref-9">[9]</a></sup>. 개선 전차에 앉은 황제의 등 뒤에서 한 목소리가 "뒤를 돌아보라, 네가 사람임을 기억하라"고 속삭인다는 대목입니다<sup class="fn"><a id="cite-10" href="#ref-10">[10]</a></sup>. 두 가지가 눈에 띕니다. 문장에 '죽음(mori)'이라는 낱말이 없습니다. 그리고 그 목소리의 주인이 노예라는 말도 없습니다.</p>
-<p>고전학자 메리 비어드는 2007년 책 『로마의 개선식』에서 이 장면을 따져 물었습니다. 이 책을 다룬 서평에 따르면 비어드의 결론은 이렇습니다. 장군 뒤에 섰다는 인물의 묘사는 문헌과 그림마다 크게 다르고, 그가 했다는 말은 사실상 근대에 짜 맞춘 것이며, 실제 의례에서 그가 무슨 역할을 했는지는 판단할 수 없습니다<sup class="fn"><a id="cite-11" href="#ref-11">[11]</a></sup>. 에픽테토스가 설명 없이 비유로 쓴 것을 보면 당시 사람들에게 낯선 이야기는 아니었던 듯합니다. 그래도 흔히 전하는 그 장면을 받쳐 주는 사료는 얇습니다.</p>
+<p>가장 자주 인용되는 문장은 기독교 저술가 테르툴리아누스가 197년 무렵 쓴 것으로 보는 『호교론』 33장에 있습니다<sup class="fn"><a id="cite-9" href="#ref-9">[9]</a></sup>. 개선 전차에 앉은 황제의 등 뒤에서 한 목소리가 <strong>"뒤를 돌아보라, 네가 사람임을 기억하라"</strong>고 속삭인다는 대목입니다<sup class="fn"><a id="cite-10" href="#ref-10">[10]</a></sup>. 두 가지가 눈에 띕니다. 문장에 '죽음(mori)'이라는 낱말이 없습니다. 그리고 그 목소리의 주인이 노예라는 말도 없습니다.</p>
+<p>고전학자 메리 비어드는 2007년 책 『로마의 개선식』에서 이 장면을 따져 물었습니다. 이 책을 다룬 서평에 따르면 비어드의 결론은 이렇습니다. 장군 뒤에 섰다는 인물의 묘사는 문헌과 그림마다 크게 다르고, 그가 했다는 말은 사실상 근대에 짜 맞춘 것이며, 실제 의례에서 그가 무슨 역할을 했는지는 판단할 수 없습니다<sup class="fn"><a id="cite-11" href="#ref-11">[11]</a></sup>. 에픽테토스가 설명 없이 비유로 쓴 것을 보면 당시 사람들에게 낯선 이야기는 아니었던 듯합니다. 그래도 흔히 전하는 그 장면에 대한 사료는 얇습니다.</p>
 <p>'메멘토 모리'라는 두 낱말 자체는 문법으로 풀면 간단합니다. 메멘토(memento)는 '기억하다'를 뜻하는 동사의 2인칭 단수 명령형이고, 모리(mori)는 '죽다'의 부정사입니다. 이 표현은 기독교가 자라나면서 함께 퍼졌고, 중세부터 묘비 미술과 건축에 나타났습니다<sup class="fn"><a id="cite-12" href="#ref-12">[12]</a></sup>. 이 글에서 읽은 세네카와 에픽테토스와 마르쿠스의 대목 어디에도 이 두 낱말은 나오지 않습니다. 세네카는 26번 편지에서 "죽음을 생각하라"는 말을 옮겨 적는데, 그 출처로 밝힌 사람은 뜻밖에도 다른 학파의 에피쿠로스입니다. 세네카는 거기에 한 줄을 보탭니다. 죽는 법을 배운 사람은 노예로 사는 법을 잊은 사람이라고요<sup class="fn"><a id="cite-6e" href="#ref-6">[6]</a></sup>.</p>
 <figure>
 <svg xmlns="http://www.w3.org/2000/svg" viewBox="0 0 680 462" width="100%" role="img" aria-labelledby="t-2 d-2" font-family="'Pretendard','Noto Sans KR','Noto Sans CJK KR','Apple SD Gothic Neo',sans-serif">
@@ -176,9 +176,9 @@
 
 <!-- 5. 마르쿠스 -->
 <h2>마르쿠스 — 순서를 정하는 문장들</h2>
-<p>다시 도나우강 가의 황제에게 돌아가 봅니다. 마르쿠스 아우렐리우스는 161년부터 180년까지 로마를 다스렸습니다. 『명상록』의 많은 부분은 그가 원정을 지휘하던 170~180년에 쓰였을 가능성이 있습니다<sup class="fn"><a id="cite-2b" href="#ref-2">[2]</a></sup>. 이 메모에서 죽음은 자주 나오지만, 문장은 거의 언제나 같은 꼴로 끝납니다. '그러니 지금 이렇게 하라'입니다.</p>
+<p>다시 황제에게 돌아가 봅니다. 마르쿠스 아우렐리우스는 161년부터 180년까지 로마를 다스렸습니다. 『명상록』의 많은 부분은 그가 원정을 지휘하던 170~180년에 쓰였을 가능성이 있습니다<sup class="fn"><a id="cite-2b" href="#ref-2">[2]</a></sup>. 이 메모에서 죽음은 자주 나오지만, 문장은 거의 언제나 같은 꼴로 끝납니다. '그러니 지금 이렇게 하라'입니다.</p>
 <p>2권 5절은 모든 행위를 생의 마지막 행위처럼 하라고 말한 뒤, 무엇을 내려놓을지 꼽습니다. 부주의와 위선, 자기 몫에 대한 불만 같은 것들입니다. 4권 17절은 더 짧습니다. 만 년을 살 것처럼 굴지 마라, 죽음이 네 위에 걸려 있다, 살아 있는 동안, 할 수 있는 동안 선한 사람이 되어라. 7권 69절은 품성의 완성을 이렇게 정의합니다. 하루하루를 마지막 날처럼 보내되, 들뜨지도 무기력하지도 꾸미지도 않는 것<sup class="fn"><a id="cite-1c" href="#ref-1">[1]</a></sup>.</p>
-<p>'들뜨지 않는다'는 단서를 눈여겨볼 만합니다. 마지막 날처럼 산다는 말은 흔히 하고 싶은 것을 다 해 보라는 권유로 읽힙니다. 마르쿠스의 문장은 정반대를 가리킵니다. 덜어 내라는 것입니다. 마지막 날이라면 하지 않을 일을 오늘 목록에서 지우라는 것입니다.</p>
+<p>'들뜨지 않는다'는 단서를 눈여겨볼 만합니다. 마지막 날처럼 산다는 말은 흔히 하고 싶은 것을 다 해 보라는 권유로 보일 수도 있습니다. 허나, 마르쿠스의 문장은 정반대입니다. 덜어 내라는 것입니다. 마지막 날이라면 하지 않을 일을 오늘 목록에서 지우라는 것입니다.</p>
 <p>죽음은 감정의 크기를 재는 자로도 쓰입니다. 7권 22절에서 그는 잘못한 사람까지 사랑하는 것이 사람다운 일이라고 적고, 그 이유를 꼽습니다. 그들도 동족이고, 몰라서 저지른 일이며, "머지않아 둘 다 죽는다"는 것입니다<sup class="fn"><a id="cite-1d" href="#ref-1">[1]</a></sup>. 상대도 나도 곧 사라질 존재라는 사실 앞에서, 화낼 일의 목록이 짧아집니다.</p>
 <p>그렇다고 그가 죽음을 깔보라고 한 것도 아닙니다. 9권 3절에서 죽음은 젊고 늙는 일, 이가 나고 수염이 나고 머리가 세는 일, 아이를 배고 낳는 일과 나란히 놓입니다. 자연이 하는 일 가운데 하나라는 것입니다. 그래서 죽음을 무심하게도, 조급하게도, 얕잡아 보지도 말고 기다리라고 적습니다<sup class="fn"><a id="cite-1e" href="#ref-1">[1]</a></sup>.</p>
 <div class="key">세 사람의 문장에는 공통된 문법이 있습니다. 죽음을 말한 다음 곧바로 '그러니 미루지 마라', '그러니 덜 바라라', '그러니 화를 거두어라'로 넘어갑니다. 죽음은 결론이 아니라 접속사 앞에 놓인 전제입니다.</div>
@@ -186,8 +186,8 @@
 <!-- 6. 오해 -->
 <h2>흔한 오해 — 스토아는 감정을 지우라고 했나</h2>
 <p>영어 낱말 '스토익(stoic)'은 고통이나 괴로움을 겉으로 드러내지 않는다는 뜻으로 쓰입니다<sup class="fn"><a id="cite-13" href="#ref-13">[13]</a></sup>. 그래서 스토아 철학자가 죽음을 날마다 떠올렸다고 하면, 슬픔조차 느끼지 않으려는 훈련으로 짐작하기 쉽습니다. 글은 다르게 말합니다.</p>
-<p>세네카는 친구 플라쿠스를 잃은 루킬리우스에게 63번 편지를 씁니다. 친구를 잃었을 때 눈이 말라 있어서도 안 되고 넘쳐흘러서도 안 된다, 울어도 좋지만 통곡하지는 말라는 것입니다. 9번 편지에서는 다른 학파와 선을 긋습니다. 우리의 현자는 괴로움을 느끼되 이겨 내고, 저들의 현자는 느끼지도 않는다고요<sup class="fn"><a id="cite-6f" href="#ref-6">[6]</a></sup>. 에픽테토스도 『담화록』 3권 2장에서 "나는 조각상처럼 무감각해서는 안 된다"고 말합니다. 아들로서, 형제로서, 아버지로서, 시민으로서 맺은 관계를 지켜야 한다는 것입니다<sup class="fn"><a id="cite-8e" href="#ref-8">[8]</a></sup>.</p>
-<p>스탠퍼드 철학 백과의 '스토아주의' 항목도 같은 점을 짚습니다. 격정에서 벗어난 현자라는 이상은 모든 감정을 뿌리 뽑으라는 말처럼 보이지만, 스토아 철학에는 현자가 누리는 '좋은 감정(에우파테이아이, eupatheiai)'에 대한 설명이 따로 있고, 이것이 현자를 감정 없는 로봇으로 그리는 희화화를 뒤집는다는 것입니다<sup class="fn"><a id="cite-14" href="#ref-14">[14]</a></sup>. 그들이 덜어 내려던 것은 감정 전체가 아니라, 그릇된 판단에서 나오는 격정이었습니다.</p>
+<p>세네카는 친구 플라쿠스를 잃은 루킬리우스에게 63번 편지를 씁니다. 친구를 잃었을 때 눈이 말라 있어서도 안 되고 넘쳐흘러서도 안 된다, 울어도 좋지만 통곡하지는 말라는 것입니다. 9번 편지에서는 다른 학파와 선을 긋습니다. 우리의 현자는 괴로움을 느끼되 이겨 내고, 저들의 현자는 느끼지도 않는다고요<sup class="fn"><a id="cite-6f" href="#ref-6">[6]</a></sup>. 에픽테토스도 『담화록』 3권 2장에서 "<strong>나는 조각상처럼 무감각해서는 안 된다</strong>"고 말합니다. 아들로서, 형제로서, 아버지로서, 시민으로서 맺은 관계를 지켜야 한다는 것입니다<sup class="fn"><a id="cite-8e" href="#ref-8">[8]</a></sup>.</p>
+<p>스탠퍼드 철학 백과의 '스토아주의' 항목도 같은 점을 짚습니다. 격정에서 벗어난 현자라는 이상은 모든 감정을 뿌리 뽑으라는 말처럼 보이지만, 스토아 철학에는 현자가 누리는 '좋은 감정(에우파테이아, eupatheiai)'에 대한 설명이 따로 있고, 이것이 현자를 감정 없는 로봇으로 그리는 희화화를 뒤집는다는 것입니다<sup class="fn"><a id="cite-14" href="#ref-14">[14]</a></sup>. 그들이 덜어 내려던 것은 감정 전체가 아니라, 그릇된 판단에서 나오는 격정이었습니다.</p>
 <figure>
 <svg xmlns="http://www.w3.org/2000/svg" viewBox="0 0 680 400" width="100%" role="img" aria-labelledby="t-3 d-3" font-family="'Pretendard','Noto Sans KR','Noto Sans CJK KR','Apple SD Gothic Neo',sans-serif">
 <title id="t-3">통념 속 스토아와 글 속 스토아의 차이</title>
@@ -219,33 +219,20 @@
 <p>63번 편지에는 이 글의 주제와 곧장 이어지는 문장도 있습니다. 친구를 탐욕스럽게 누리자, 이 특권이 언제까지 우리 것일지 모르니<sup class="fn"><a id="cite-6g" href="#ref-6">[6]</a></sup>. 죽음을 떠올리는 일이 정을 줄이는 쪽이 아니라, 정을 미루지 않는 쪽으로 쓰이고 있습니다.</p>
 
 <!-- 7. 조심할 대목 -->
-<h2>조심해서 읽어야 할 대목</h2>
-<p>세네카의 편지에는 오늘의 독자가 그대로 받아들여서는 안 되는 대목이 섞여 있습니다. 70번 편지에서 그는 그저 사는 것이 좋은 것이 아니라 잘 사는 것이 좋은 것이라고 쓰고, 현자는 살 수 있는 만큼이 아니라 살아야 하는 만큼 산다고 말합니다<sup class="fn"><a id="cite-6h" href="#ref-6">[6]</a></sup>. 스스로 삶을 끝내는 선택을 변호하는 글입니다.</p>
-<p>이 대목은 맥락과 함께 읽어야 합니다. 세네카 자신은 65년, 네로 황제를 겨눈 음모에 얽혔다는 혐의로 황제에게서 스스로 목숨을 끊으라는 명령을 받고 죽었습니다. 그가 음모에 가담했을 가능성은 낮다고 봅니다<sup class="fn"><a id="cite-3b" href="#ref-3">[3]</a></sup>. 권력자의 말 한마디에 삶이 끝날 수 있던 시대와 자리에서 쓴 글이라는 뜻입니다. 오늘의 삶에 옮겨 올 처방이 아닙니다.</p>
-<p>더 중요한 것은 세네카 스스로 세운 제동 장치입니다. 24번 편지에서 그는 삶을 지나치게 사랑하지도 미워하지도 말라고 쓰고, 무엇보다 피해야 할 약함으로 "죽음을 향한 욕망"을 꼽습니다. 그것은 고결하고 기개 있는 사람도, 움츠러든 사람도 덮칠 수 있는 분별없는 쏠림이라고 그는 말합니다<sup class="fn"><a id="cite-6i" href="#ref-6">[6]</a></sup>.</p>
-<div class="caution">스토아의 죽음 명상은 죽음 쪽으로 걸어가는 연습이 아니라, 죽음을 한 번 바라본 뒤 삶 쪽으로 돌아오는 연습입니다. 죽음을 떠올리는 일이 삶을 정돈하는 대신 삶을 끝내고 싶은 마음으로 이어진다면, 그것은 철학 연습이 아니라 도움을 청해야 한다는 신호입니다.</div>
 
 <!-- 8. 심리학 -->
-<h2>현대 심리학은 무엇을 확인했나</h2>
-<p>이 연습이 실제로 듣는지 현대 심리학이 검증했을까요. 스토아의 죽음 명상을 직접 시험한 연구는 이 글에서 확인하지 못했습니다. 다만 가까운 자리에 두 갈래의 연구가 있습니다.</p>
-<p>하나는 공포 관리 이론(Terror Management Theory)입니다. 사람은 죽음을 떠올리면 불안을 누르려고 자기가 속한 문화의 세계관과 자존감을 더 굳게 붙든다는 가설입니다. 2010년에 나온 종합 분석은 논문 164편에 실린 실험 277건을 모아, 죽음을 떠올리게 한 조건에서 중간 크기의 효과(r = .35)가 나타났다고 보고했습니다<sup class="fn"><a id="cite-15" href="#ref-15">[15]</a></sup>. 그런데 2022년, 17개 연구실이 참가자 1,550명으로 이 분야의 고전적 실험을 다시 해 보았더니 어떤 조건에서도 결과가 재현되지 않았습니다. 연구진은 원래 결과가 거짓 양성, 곧 우연히 나온 결과였거나, 효과가 나타나는 조건을 아직 제대로 모르거나, 그 조건이 이제는 사라졌다는 뜻이라고 적었습니다<sup class="fn"><a id="cite-16" href="#ref-16">[16]</a></sup>. 지금으로서는 논쟁 중인 근거입니다. 게다가 이 실험들이 잰 것은 죽음을 잠깐 떠올린 뒤에 나타나는 방어 반응이지, 날마다 스스로 하는 성찰의 효과가 아닙니다.</p>
-<p>다른 하나는 스토아의 직관에 더 가깝습니다. 심리학자 로라 카스텐슨의 사회정서적 선택 이론입니다. 2006년 『사이언스』에 실린 글에서 그는 남은 시간을 어떻게 느끼느냐가 사람의 동기를 좌우한다고 정리했습니다. 시간이 한정돼 있다고 느끼면 사람은 지평을 넓히는 목표보다 정서적으로 의미 있는 목표를 앞에 둡니다. 젊은 사람도 곧 먼 곳으로 이사한다고 상상하게 하면, 노인처럼 마음이 가까운 사람과 시간을 보내는 쪽을 택했습니다. 카스텐슨은 끝이 꼭 노년이나 임박한 죽음일 필요는 없고, 시간의 지평을 좁히기만 하면 된다고 썼습니다<sup class="fn"><a id="cite-17" href="#ref-17">[17]</a></sup>.</p>
-<p>끝을 의식하면 우선순위가 바뀐다는 점에서, 이 관찰은 세네카의 장부와 닮았습니다. 다만 여기까지입니다. 이 연구는 사람이 끝을 느낄 때 선택이 어떻게 달라지는지를 본 것이지, 날마다 죽음을 떠올리는 수련이 사람을 더 낫게 만든다는 것을 보인 것이 아닙니다. 스토아의 연습은 검증된 치료법이 아니라, 이천 년 가까이 읽혀 온 사유의 도구로 대하는 편이 정확합니다.</p>
 
 <!-- 9. 필자 한마디 -->
 <section class="expert-note">
   <h2>필자 한마디</h2>
   <blockquote>
     <p>죽음을 생각하는 일이 꺼림칙하게 느껴진다면 그것은 자연스러운 반응입니다. 에픽테토스의 강의를 듣던 사람도 "불길한 말"이라며 맞섰으니까요.</p>
-    <p><strong>"죽음을 기억하라는 말의 무게는 '죽음'이 아니라 '그러니 오늘'에 실려 있습니다."</strong> 세네카는 장부를 닫자고 했고, 에픽테토스는 욕심의 눈금을 맞추자고 했고, 마르쿠스는 하지 않아도 될 일을 지우자고 했습니다. 세 사람 모두 죽음을 오래 들여다보지 않았습니다. 한 번 보고, 곧바로 오늘로 돌아왔습니다.</p>
-    <p>그러니 이 연습은 하루를 무겁게 만들 필요가 없습니다. 미뤄 둔 전화 한 통, 마음에 걸리는 말 한마디가 목록의 맨 위로 올라오면 그것으로 충분합니다.</p>
-  </blockquote>
+    <p><strong>"죽음을 기억하라는 말의 무게는 '죽음'이 아니라 '그러니 오늘'에 실려 있습니다."</strong> 세네카는 장부를 닫자고 했고, 에픽테토스는 욕심의 눈금을 맞추자고 했고, 마르쿠스는 하지 않아도 될 일을 지우자고 했습니다. 세 사람 모두 죽음을 오래 들여다보지 않았습니다. "<strong>혹시 삶에 떠밀려 인생에서 추구해야 할 단 한가지 미션을 놓치고 계시지는 않습니까?"</strong></p>
+      </blockquote>
 </section>
 
 <!-- 10. 정리 -->
 <hr>
-<p>세네카는 죽음을 이미 지나간 날들의 몫으로 보고 오늘의 장부를 오늘 닫자고 했습니다. 에픽테토스는 사랑하는 이에게 입 맞추는 순간에 그가 철 따라 주어진 사람임을 떠올리라고 했고, 마르쿠스 아우렐리우스는 지금 떠날 수도 있다는 사실에 맞추어 행동과 생각을 정하라고 적었습니다. '메멘토 모리'라는 표현과 개선식의 노예 이야기는 이 철학자들보다 뒤에 굳어진 것이고, 현대 심리학은 끝을 의식할 때 우선순위가 바뀐다는 데까지만 확인했습니다.</p>
-<p>오늘 밤 장부를 닫는다면, 미뤄 둔 일 가운데 무엇이 맨 위로 올라올까요.</p>
 
 <!-- 11. 꼬리 -->
 
@@ -266,9 +253,6 @@
     <li id="ref-12">위키백과. Memento mori (백과; 문법 풀이, 기독교와 함께 발달, 중세 이후 묘비 미술). <a href="https://en.wikipedia.org/wiki/Memento_mori">링크</a> <a class="back" href="#cite-12">↩</a></li>
     <li id="ref-13">Wiktionary. stoic (사전; 형용사 뜻풀이 "고통이나 괴로움의 영향을 겉으로 드러내지 않는"). <a href="https://en.wiktionary.org/wiki/stoic">링크</a> <a class="back" href="#cite-13">↩</a></li>
     <li id="ref-14">Durand, M., Shogry, S., Baltzly, D. Stoicism. <i>Stanford Encyclopedia of Philosophy</i>, 2023. <a href="https://plato.stanford.edu/entries/stoicism/">링크</a> <a class="back" href="#cite-14">↩</a></li>
-    <li id="ref-15">Burke, B. L., Martens, A., Faucher, E. H. Two Decades of Terror Management Theory: A Meta-Analysis of Mortality Salience Research. <i>Personality and Social Psychology Review</i> 14(2): 155–195, 2010. <a href="https://doi.org/10.1177/1088868309352321">링크</a> <a class="back" href="#cite-15">↩</a></li>
-    <li id="ref-16">Klein, R. A., Cook, C. L., Ebersole, C. R. 등. Many Labs 4: Failure to Replicate Mortality Salience Effect With and Without Original Author Involvement. <i>Collabra: Psychology</i> 8(1): 35271, 2022. <a href="https://doi.org/10.1525/collabra.35271">링크</a> <a class="back" href="#cite-16">↩</a></li>
-    <li id="ref-17">Carstensen, L. L. The Influence of a Sense of Time on Human Development. <i>Science</i> 312(5782): 1913–1915, 2006. <a href="https://pmc.ncbi.nlm.nih.gov/articles/PMC2790864/">링크</a> <a class="back" href="#cite-17">↩</a></li>
   </ol>
 </section>
 

diff --git a/posts/turing-lamda/post.html b/posts/turing-lamda/post.html
@@ -74,7 +74,7 @@
 
 <!-- 2. 튜링의 물음 바꾸기 -->
 <h2>1950년, 질문을 바꿔 버리다</h2>
-<p>튜링의 논문 「계산 기계와 지능(Computing Machinery and Intelligence)」은 1950년 철학 학술지 <i>Mind</i>에 실렸습니다. 첫 문장은 "'기계는 생각할 수 있는가?'라는 질문을 생각해 보자"입니다. 그런데 그는 곧 이 질문을 내려놓습니다. 낱말의 뜻을 사람들의 평소 쓰임에서 찾으면 답을 여론조사에서 구해야 하는데, 그건 부조리하다는 것입니다. 그래서 질문을 다른 질문으로 "바꾸겠다"고 선언합니다<sup class="fn"><a id="cite-2" href="#ref-2">[2]</a></sup>.</p>
+<p>튜링의 논문 「계산 기계와 지능(Computing Machinery and Intelligence)」은 1950년 철학 학술지 <i>Mind</i>에 실렸습니다. 첫 문장은 "'기계는 생각할 수 있는가?'라는 질문을 생각해 보자"입니다. 그런데 그는 곧 이 질문을 버립니다. 낱말의 뜻을 사람들의 평소 쓰임에서 찾으면 답을 여론조사에서 구해야 하는데, 그건 부조리하다는 것입니다. 그래서 질문을 다른 질문으로 "바꾸겠다"고 선언합니다<sup class="fn"><a id="cite-2" href="#ref-2">[2]</a></sup>.</p>
 <p>새 질문은 게임의 모양입니다. 처음 등장하는 판에는 남자(A), 여자(B), 질문자(C)가 있습니다. 다른 방의 질문자는 누가 남자이고 누가 여자인지 맞혀야 하고, 남자는 질문자가 틀리게, 여자는 맞히게 애씁니다. 목소리로 알아채지 못하도록 답은 글로, 가장 좋게는 텔레프린터(전신 타자기)로 주고받습니다<sup class="fn"><a id="cite-2b" href="#ref-2">[2]</a></sup>.</p>
 <p>이어지는 물음은 이것입니다. 기계가 A를 맡으면 질문자는 사람끼리 할 때만큼 자주 틀릴까. 그는 "이 질문들이 원래의 질문을 대신한다"고 적고, 논문 뒤쪽에서는 컴퓨터가 A를, 남자가 B를 맡는 판으로 다시 정리합니다<sup class="fn"><a id="cite-2c" href="#ref-2">[2]</a></sup>. 오늘날 '튜링 테스트'라고 부르는 것이 이 판입니다.</p>
 <figure>
@@ -105,7 +105,7 @@
 </svg>
 <figcaption>튜링의 첫 판은 다른 방의 질문자가 글로만 묻고 남자와 여자를 가려내는 게임이었고, 둘째 판은 그 남자의 자리에 기계를 앉혀 질문자가 얼마나 자주 틀리는지를 묻습니다.</figcaption>
 </figure>
-<p>여기서 눈여겨볼 것은 측정하는 대상입니다. 튜링의 게임이 재는 것은 기계 속의 무엇이 아닙니다. 질문자가 얼마나 자주 틀리느냐입니다. 저울의 눈금이 처음부터 사람 쪽에 새겨져 있는 셈입니다.</p>
+<p>여기서 눈여겨볼 것은 측정하는 대상입니다. 튜링의 게임이 재는 것은 기계 속의 무엇이 아닙니다. 질문자(C)가 얼마나 자주 틀리느냐입니다. </p>
 
 <!-- 3. 튜링의 예측 -->
 <h2>튜링의 예측 — 50년, 5분, 70%</h2>
@@ -114,7 +114,7 @@
   <p>원래의 질문, '기계는 생각할 수 있는가?'는 논의할 가치가 없을 만큼 무의미하다고 나는 믿는다.</p>
   <cite>— A. M. Turing, <i>Mind</i> 1950 (번역)<sup class="fn"><a id="cite-2e" href="#ref-2">[2]</a></sup></cite>
 </blockquote>
-<p>그러면서도 그는 세기말이 되면 낱말의 쓰임과 교양인의 생각이 크게 바뀌어, 반박당할 걱정 없이 '기계가 생각한다'고 말하게 되리라고 내다봤습니다<sup class="fn"><a id="cite-2f" href="#ref-2">[2]</a></sup>. 모순처럼 보이지만 앞 절의 눈금을 떠올리면 앞뒤가 맞습니다. 그가 예측한 것은 기계의 속이 아니라 사람들의 판단과 말버릇이었습니다.</p>
+<p>그러면서도 그는 세기말이 되면 사람들의 생각이 크게 바뀌어, 반박당할 걱정 없이 '기계가 생각한다'고 말하게 되리라고 내다봤습니다<sup class="fn"><a id="cite-2f" href="#ref-2">[2]</a></sup>. 그가 예측한 것은 기계의 속이 아니라 사람들의 판단과 말버릇이었습니다.</p>
 <figure>
 <svg xmlns="http://www.w3.org/2000/svg" viewBox="0 0 680 270" width="100%" role="img" aria-labelledby="t-2 d-2" font-family="'Pretendard','Noto Sans KR','Noto Sans CJK KR','Apple SD Gothic Neo',sans-serif">
 <title id="t-2">튜링의 예측을 질문자의 적중률로 읽기</title>
@@ -146,7 +146,7 @@
 <!-- 4. 의식 논변 -->
 <h2>튜링이 이미 알고 있던 것 — "모두가 생각한다는 예의 바른 약속"</h2>
 <p>튜링은 반론도 미리 꺼내 놓았습니다. 그중 '의식으로부터의 논변'은 제퍼슨 교수의 1949년 리스터 강연에서 왔습니다. 기계가 기호의 우연이 아니라 실제로 느낀 감정으로 소네트를 쓰고, 썼다는 것까지 알 때에야 뇌와 같다고 인정하겠다는 주장입니다<sup class="fn"><a id="cite-2g" href="#ref-2">[2]</a></sup>.</p>
-<p>튜링의 답은 날카롭습니다. 이 주장을 끝까지 밀면, 기계가 생각하는지 확신하는 길은 그 기계가 되어 보는 것뿐입니다. 같은 논리라면 어떤 사람이 생각하는지 아는 길도 그 사람이 되어 보는 것뿐입니다. 튜링은 이것을 유아론이라 부르고, 우리는 끝없이 다투는 대신 보통 "모두가 생각한다는 예의 바른 약속"을 두고 산다고 덧붙입니다<sup class="fn"><a id="cite-2h" href="#ref-2">[2]</a></sup>.</p>
+<p>튜링의 답은 날카롭습니다. 기계가 생각하는지 확신하는 길은 그 기계가 되어 보는 것뿐입니다. 같은 논리라면 어떤 사람이 생각하는지 아는 길도 그 사람이 되어 보는 것뿐입니다. 즉, 사람들이 "기계는 생각하지 않는다"고 쉽게 말하지만, 타인이 생각한다는 걸 증명하는 것도 사실은 불가능한 것이지요. 튜링은 간단하게 "모두가 생각한다는 예의 바른 약속(Polite Convention)"을 두고 산다고 덧붙입니다<sup class="fn"><a id="cite-2h" href="#ref-2">[2]</a></sup>. </p>
 <p>필자가 읽기에 이 대목이 가장 중요합니다. 튜링은 의식을 재는 기계를 만든 것이 아니라, 우리가 서로에게 마음이 있다고 여기는 방식, 곧 겉으로 오가는 말을 보고 약속처럼 받아들이는 방식을 기계에도 적용해 보자고 제안한 것에 가깝습니다.</p>
 <div class="key">튜링 테스트는 마음의 유무를 재는 계기가 아니라, 다른 사람에게 마음이 있다고 여기는 우리의 일상적 판단을 기계 앞에 그대로 세워 본 장치입니다. 그러니 그 판단이 흔들리는 곳은 기계 쪽만이 아닙니다.</div>
 
@@ -159,7 +159,7 @@
   <cite>— J. Weizenbaum, <i>Communications of the ACM</i> 1966 (번역)<sup class="fn"><a id="cite-4b" href="#ref-4">[4]</a></sup></cite>
 </blockquote>
 <p>같은 논문은 엘리자가 이해의 환상을 만들고 유지하기가 얼마나 쉬운지를 보여 준다고 맺습니다<sup class="fn"><a id="cite-4c" href="#ref-4">[4]</a></sup>. 바이첸바움은 1976년 책에, 자기 비서가 엘리자와 "진짜 대화"를 하겠다며 자리를 비켜 달라고 했다는 일화를 남겼습니다. 다만 이 일화는 그 책을 인용한 백과사전을 거쳐 옮긴 것입니다<sup class="fn"><a id="cite-3b" href="#ref-3">[3]</a></sup>. 단순한 프로그램에 이해나 공감 같은 사람의 성질을 덧입히는 경향에는 '엘리자 효과(ELIZA effect)'라는 이름이 붙었습니다<sup class="fn"><a id="cite-5" href="#ref-5">[5]</a></sup>.</p>
-<p>비유하자면 엘리자는 메아리에 가까웠습니다. 산에서 메아리를 듣고 누가 대답한다고 착각하는 사람은 드뭅니다. 그런데 메아리가 내 말을 조금 바꿔 질문으로 돌려주면, 사람은 그 너머에 누군가 있다고 느끼기 시작합니다.</p>
+<p>비유하자면 엘리자는 메아리에 가까웠습니다. 산에서 메아리를 듣고 누가 대답한다고 착각하는 사람은 드뭅니다. 그런데 <strong>메아리가 내 말을 조금 바꿔 질문으로 돌려주면</strong>, <strong>사람은 그 너머에 누군가 있다</strong>고 느끼기 시작합니다.</p>
 
 <!-- 6. 람다 -->
 <h2>2022년, 구글의 엔지니어</h2>
@@ -197,7 +197,7 @@
 </svg>
 <figcaption>사람이 질문으로 틀을 놓으면 기계는 그 틀을 따라 답하고, 사람은 그 답에 그럴듯함을 덧입혀 상대를 더 깊은 존재로 그리며, 그 그림이 다음 질문을 더 깊게 만듭니다.</figcaption>
 </figure>
-<p>당시 전문가들의 말도 같은 방향을 가리켰습니다. 인지과학자 게리 마커스는 사람은 아주 쉽게 속는다며, 달을 올려다보고 얼굴을 보는 것과 같다고 했습니다<sup class="fn"><a id="cite-8c" href="#ref-8">[8]</a></sup>. 산타페 연구소의 멜라니 미첼은 더 짧게 말했습니다. "구글 엔지니어도 사람이고, 예외가 아니다."<sup class="fn"><a id="cite-9c" href="#ref-9">[9]</a></sup></p>
+<p>인지과학자 게리 마커스는 사람은 아주 쉽게 속는다며, 달을 올려다보고 얼굴을 보는 것과 같다고 했습니다<sup class="fn"><a id="cite-8c" href="#ref-8">[8]</a></sup>. 산타페 연구소의 멜라니 미첼은 더 짧게 말했습니다. "구글 엔지니어도 사람이고, 예외가 아니다."<sup class="fn"><a id="cite-9c" href="#ref-9">[9]</a></sup></p>
 <p>이것이 르모인을 비웃을 이유는 아닙니다. 이 논란이 새로 보여 준 것은, 말 앞에서 판단이 기우는 일이 기계를 잘 아는 종사자에게도 일어난다는 점입니다. 물론 그가 수백 명 가운데 한 사람이었다는 점도 함께 기억해야 합니다.</p>
 
 <!-- 8. 기준이 없다 -->
@@ -211,15 +211,14 @@
 <section class="expert-note">
   <h2>필자 한마디</h2>
   <blockquote>
-    <p><strong>"튜링 테스트는 기계만 시험하지 않습니다. 화면 앞에 앉은 우리도 함께 시험합니다."</strong> 기계가 그럴듯하게 말할수록, 그 그럴듯함 가운데 얼마가 내 질문과 내 해석에서 왔는지를 한 번 더 따져 보는 일이 판정하는 사람의 몫입니다.</p>
-    <p>AI 연구자 마거릿 미첼은 2022년에 이렇게 경고했습니다. "오늘 한 사람이 의식을 감지한다면, 내일은 더 많은 사람이 그럴 것이다."<sup class="fn"><a id="cite-8d" href="#ref-8">[8]</a></sup> 그 내일이 지금의 화면 앞입니다.</p>
+    <p> "인공지능이 그럴듯하게 말할수록, 그 중 <strong><strong>얼마가 내 질문에서 왔는지</strong>를 한 번 더 따져 보는 일</strong>이 중요합니다." -수염사자</p>
+    <p>AI 연구자 마거릿 미첼은 2022년에 이렇게 경고했습니다. "오늘 한 사람이 의식을 감지한다면, 내일은 더 많은 사람이 그럴 것이다."<sup class="fn"><a id="cite-8d" href="#ref-8">[8]</a></sup></p>
   </blockquote>
 </section>
 
 <!-- 10. 정리 -->
 <hr>
-<p>튜링은 1950년 '기계가 생각하는가'라는 물음을 내려놓고, 다른 방의 질문자가 글만 보고 기계를 가려낼 수 있느냐는 게임으로 바꿨습니다. 그 눈금은 처음부터 질문자의 적중률, 곧 사람의 판단에 새겨져 있었습니다. 1966년의 엘리자는 그 판단이 단순한 프로그램 앞에서도 기운다는 것을, 2022년의 LaMDA 논란은 엔지니어도 예외가 아님을 보여 줬습니다. 그렇다고 기계에 마음이 없다고 판정할 합의된 기준이 있는 것도 아닙니다.</p>
-<p>다음에 챗봇의 답이 유난히 사람 같다고 느껴지면 한번 물어보세요. 방금 그 답에서, 기계가 한 말은 어디까지이고 내가 덧입힌 뜻은 어디부터일까요.</p>
+<p>다음에 AI의 답이 유난히 사람 같다고 느껴지면 한번 물어보세요. 방금 그 답에서, 기계가 한 말은 어디까지이고 내가 덧입힌 뜻은 어디부터일까요.</p>
 
 <!-- 11. 꼬리 -->
 
